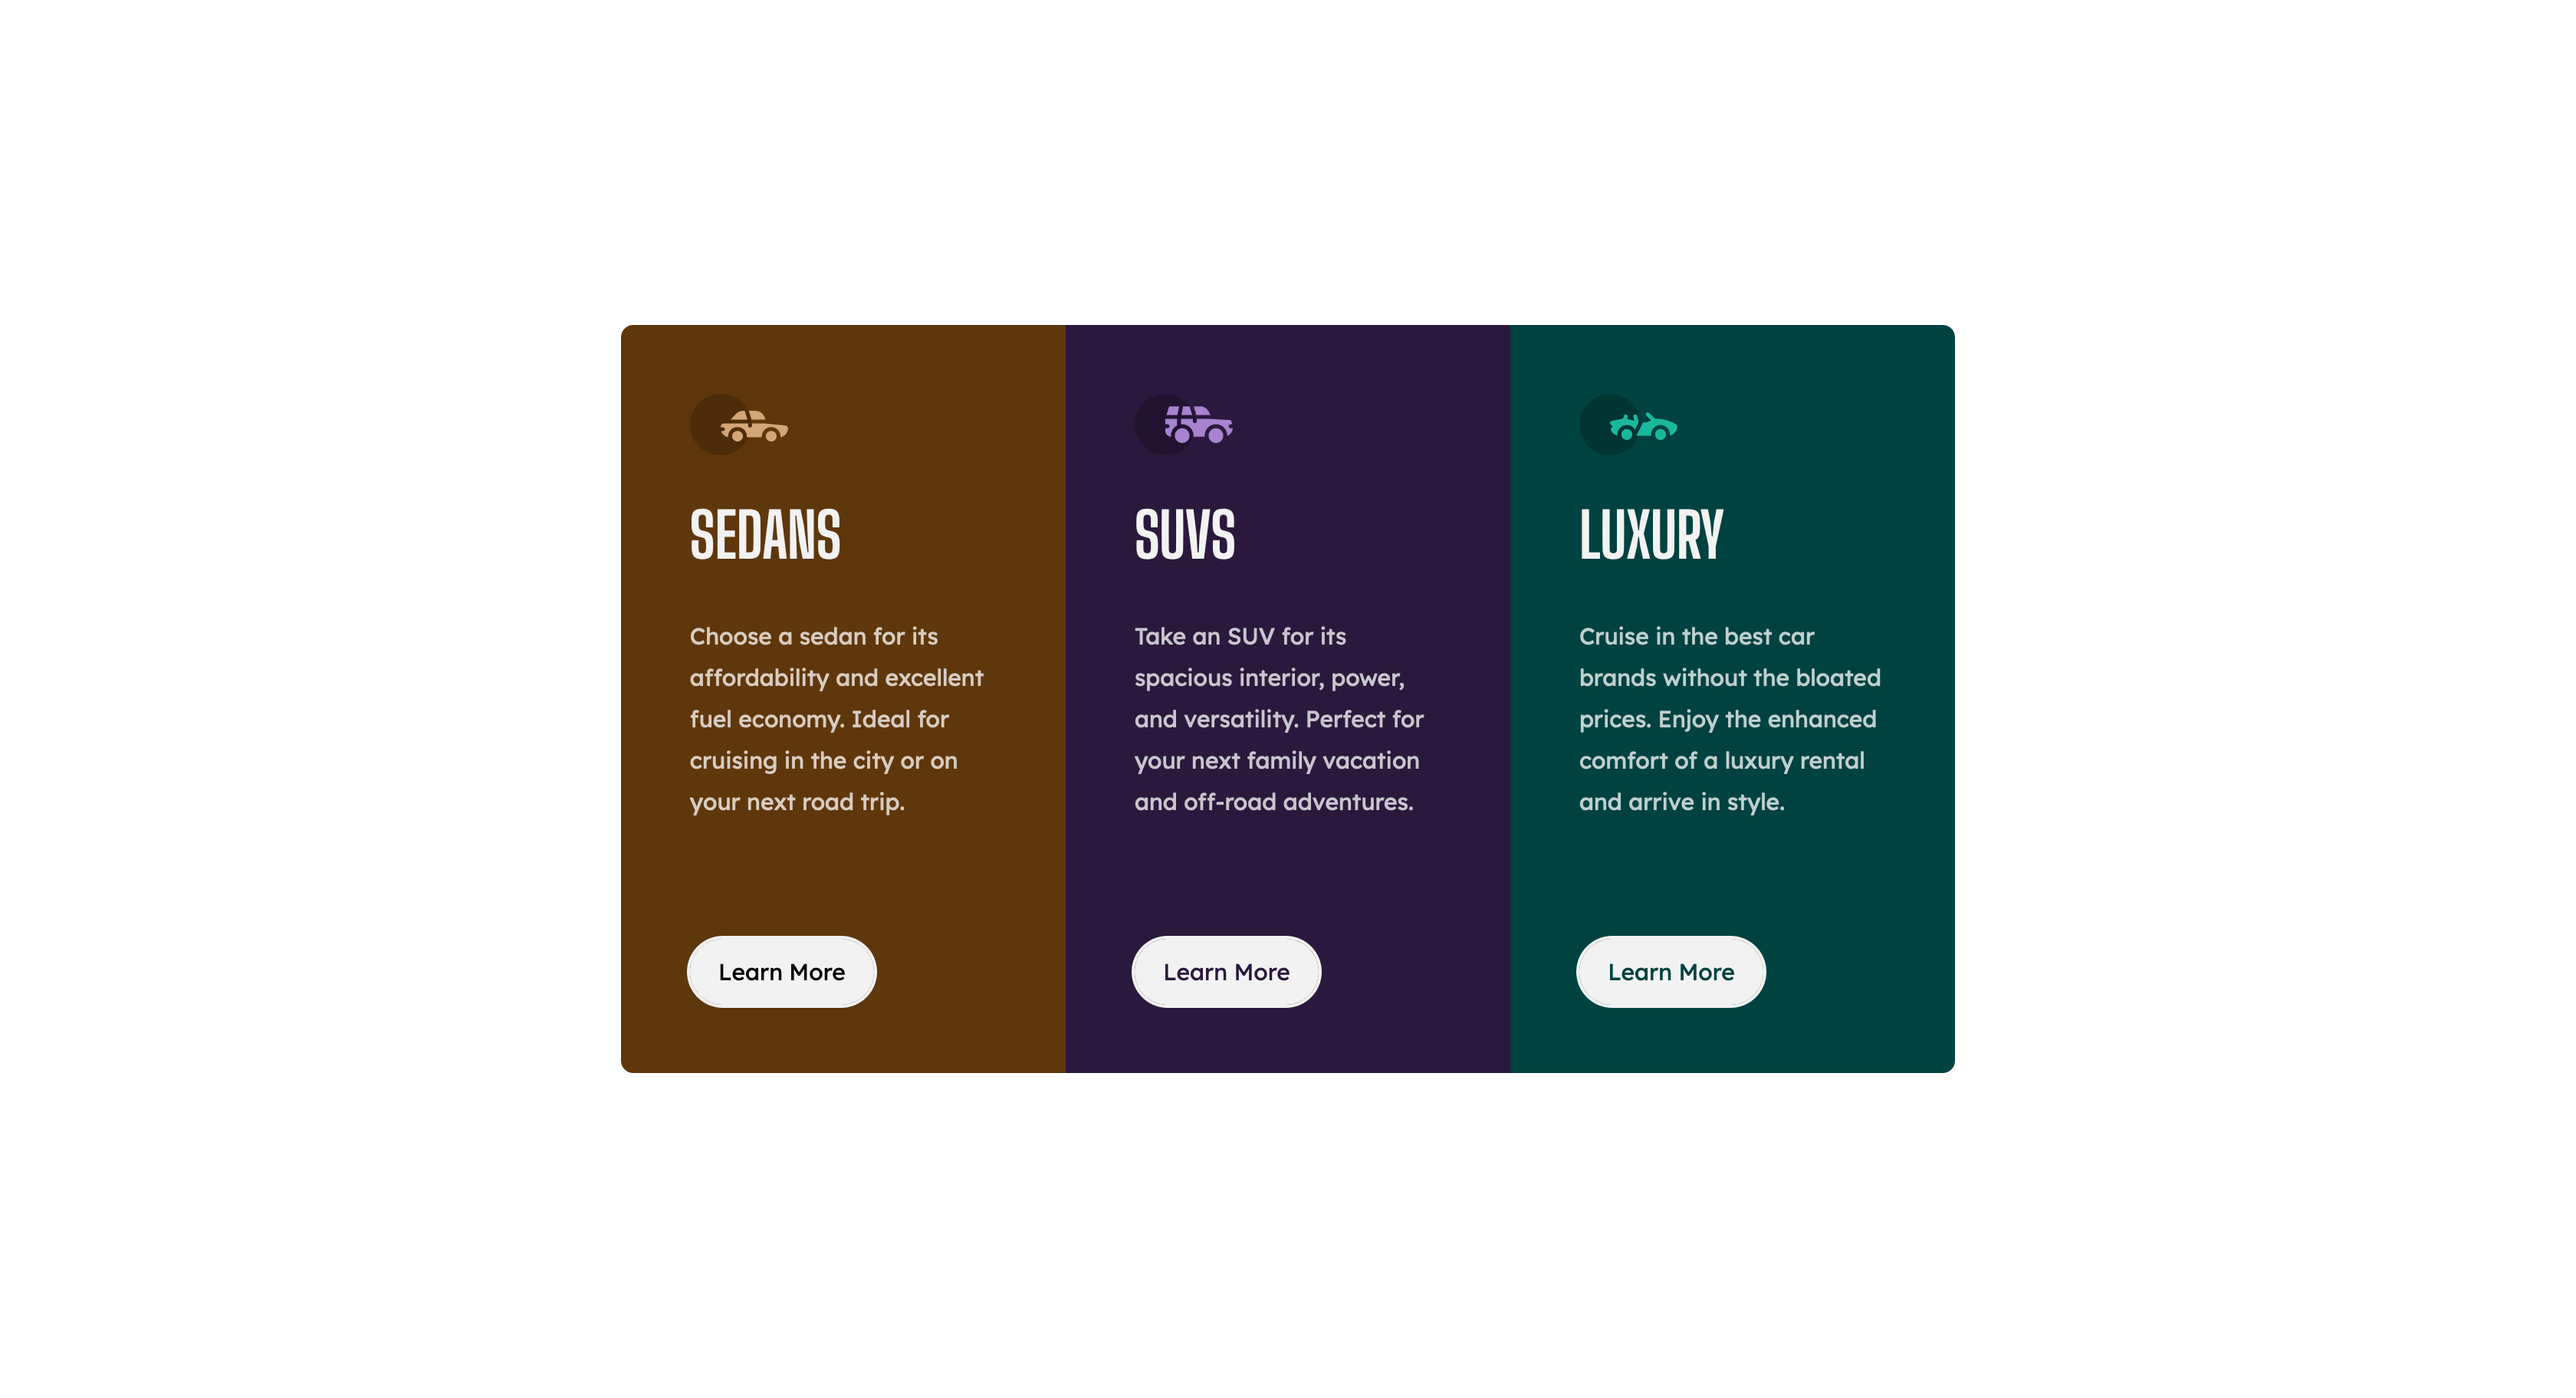
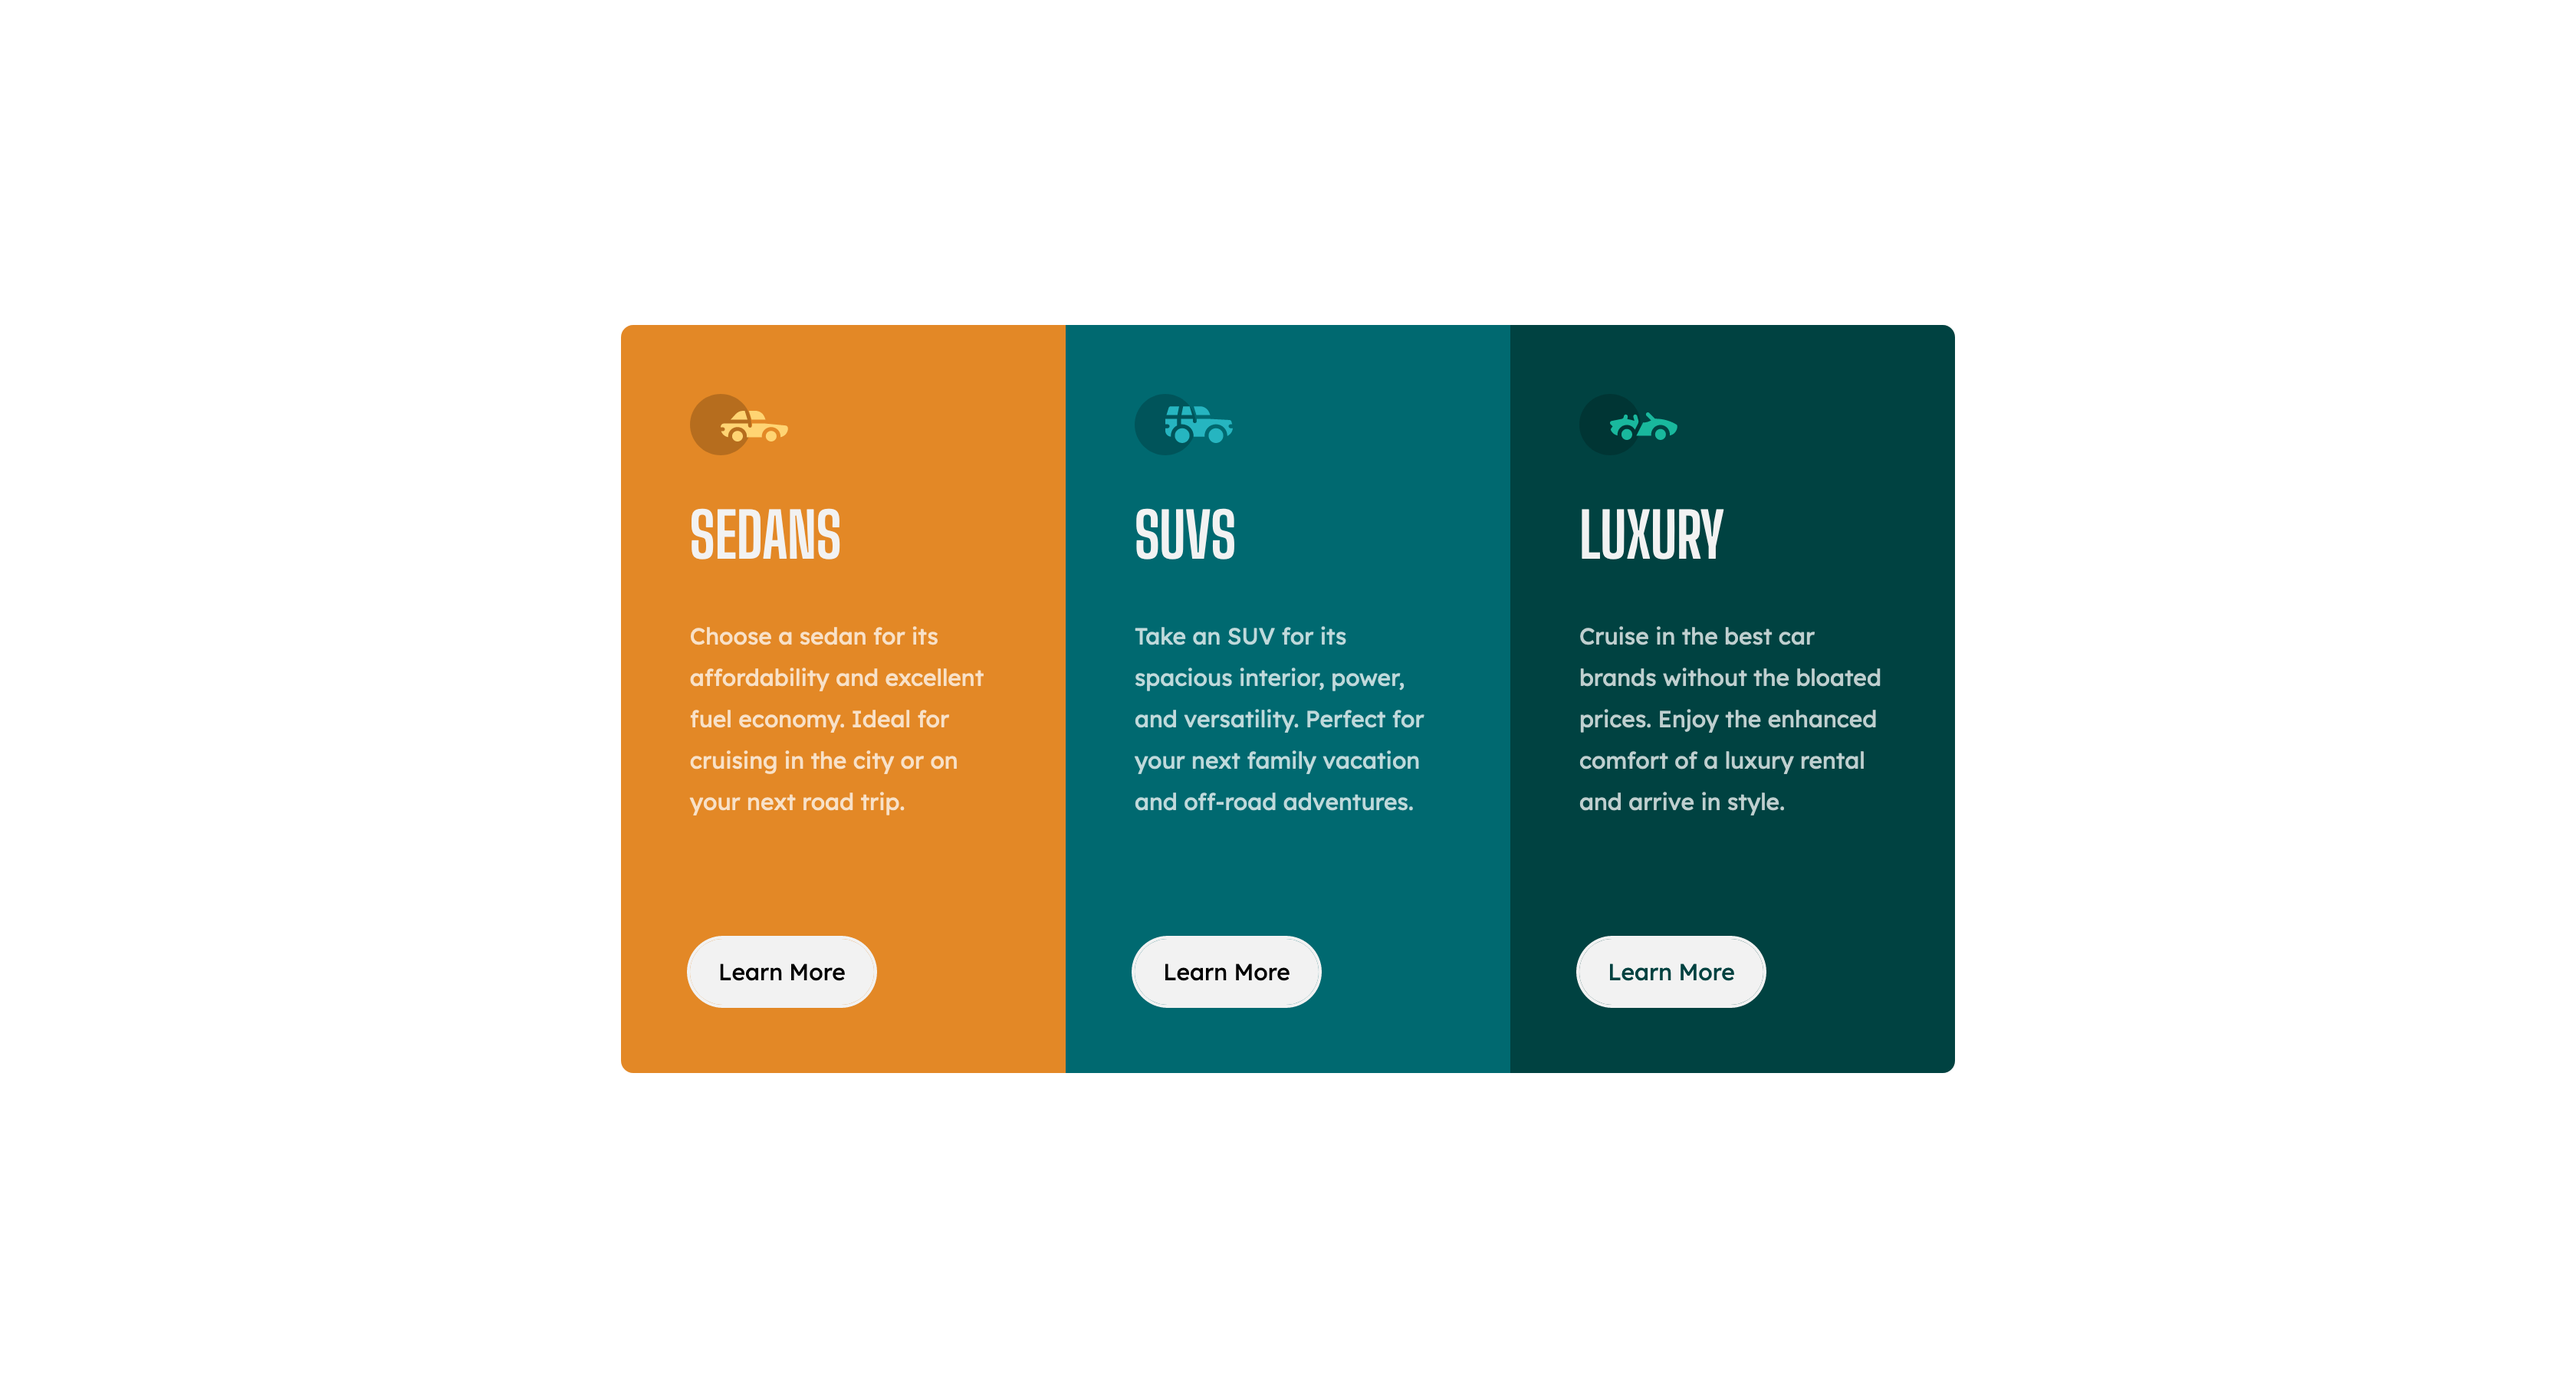
commit

Changed region(s): [[0.2188, 0.2188, 0.5938, 0.7812]]

diff --git a/index.html b/index.html
@@ -13,21 +13,21 @@
     <main class="container">
       <div class="wrapper">
         <div class="card sedans">
-          <img src="./images/icon-sedans.svg" alt="" aria-hidden="“true”" />
+          <img src="./images/icon-sedans.svg" alt="" aria-hidden="true" />
           <h2 class="card--title">Sedans</h2>
           <p class="card--text">Choose a sedan for its affordability and excellent fuel economy. Ideal for cruising in the city or on your next road trip.</p>
           <a href="#" class="btn" aria-label="learn more sedans">Learn More</a>
         </div>
 
         <div class="card suvs">
-          <img src="./images/icon-suvs.svg" alt="" aria-hidden="“true”" />
+          <img src="./images/icon-suvs.svg" alt="" aria-hidden="true" />
           <h2 class="card--title">SUVs</h2>
           <p class="card--text">Take an SUV for its spacious interior, power, and versatility. Perfect for your next family vacation and off-road adventures.</p>
           <a href="#" class="btn" aria-label="learn more about suvs">Learn More</a>
         </div>
 
         <div class="card luxury">
-          <img src="./images/icon-luxury.svg" alt="" aria-hidden="“true”" />
+          <img src="./images/icon-luxury.svg" alt="" aria-hidden="true" />
           <h2 class="card--title">Luxury</h2>
           <p class="card--text">Cruise in the best car brands without the bloated prices. Enjoy the enhanced comfort of a luxury rental and arrive in style.</p>
           <a href="#" class="btn" aria-label="learn more about luxury cars">Learn More</a>

diff --git a/styles.css b/styles.css
@@ -8,9 +8,9 @@
 }
 
 :root {
-  --Brown: #5f370c;
-  --Purple: #2b193d;
-  --Very-dark-cyan: #004241;
+  --Bright-orange: hsl(31, 77%, 52%);
+  --Dark-cyan: hsl(184, 100%, 22%);
+  --Very-dark-cyan: hsl(179, 100%, 13%);
   --Transparent-white: #ffffffbf;
   --Very-light-gray: hsl(0, 0%, 95%);
   --space-l-xl: clamp(1.88rem, calc(1.54rem + 1.41vw), 2.81rem);
@@ -68,7 +68,7 @@ body {
 }
 
 .sedans {
-  background-color: var(--Brown);
+  background-color: var(--Bright-orange);
   border-radius: 0.5rem 0.5rem 0 0;
 }
 
@@ -77,7 +77,7 @@ body {
 }
 
 .suvs {
-  background-color: var(--Purple);
+  background-color: var(--Dark-cyan);
 }
 
 .suvs a {
